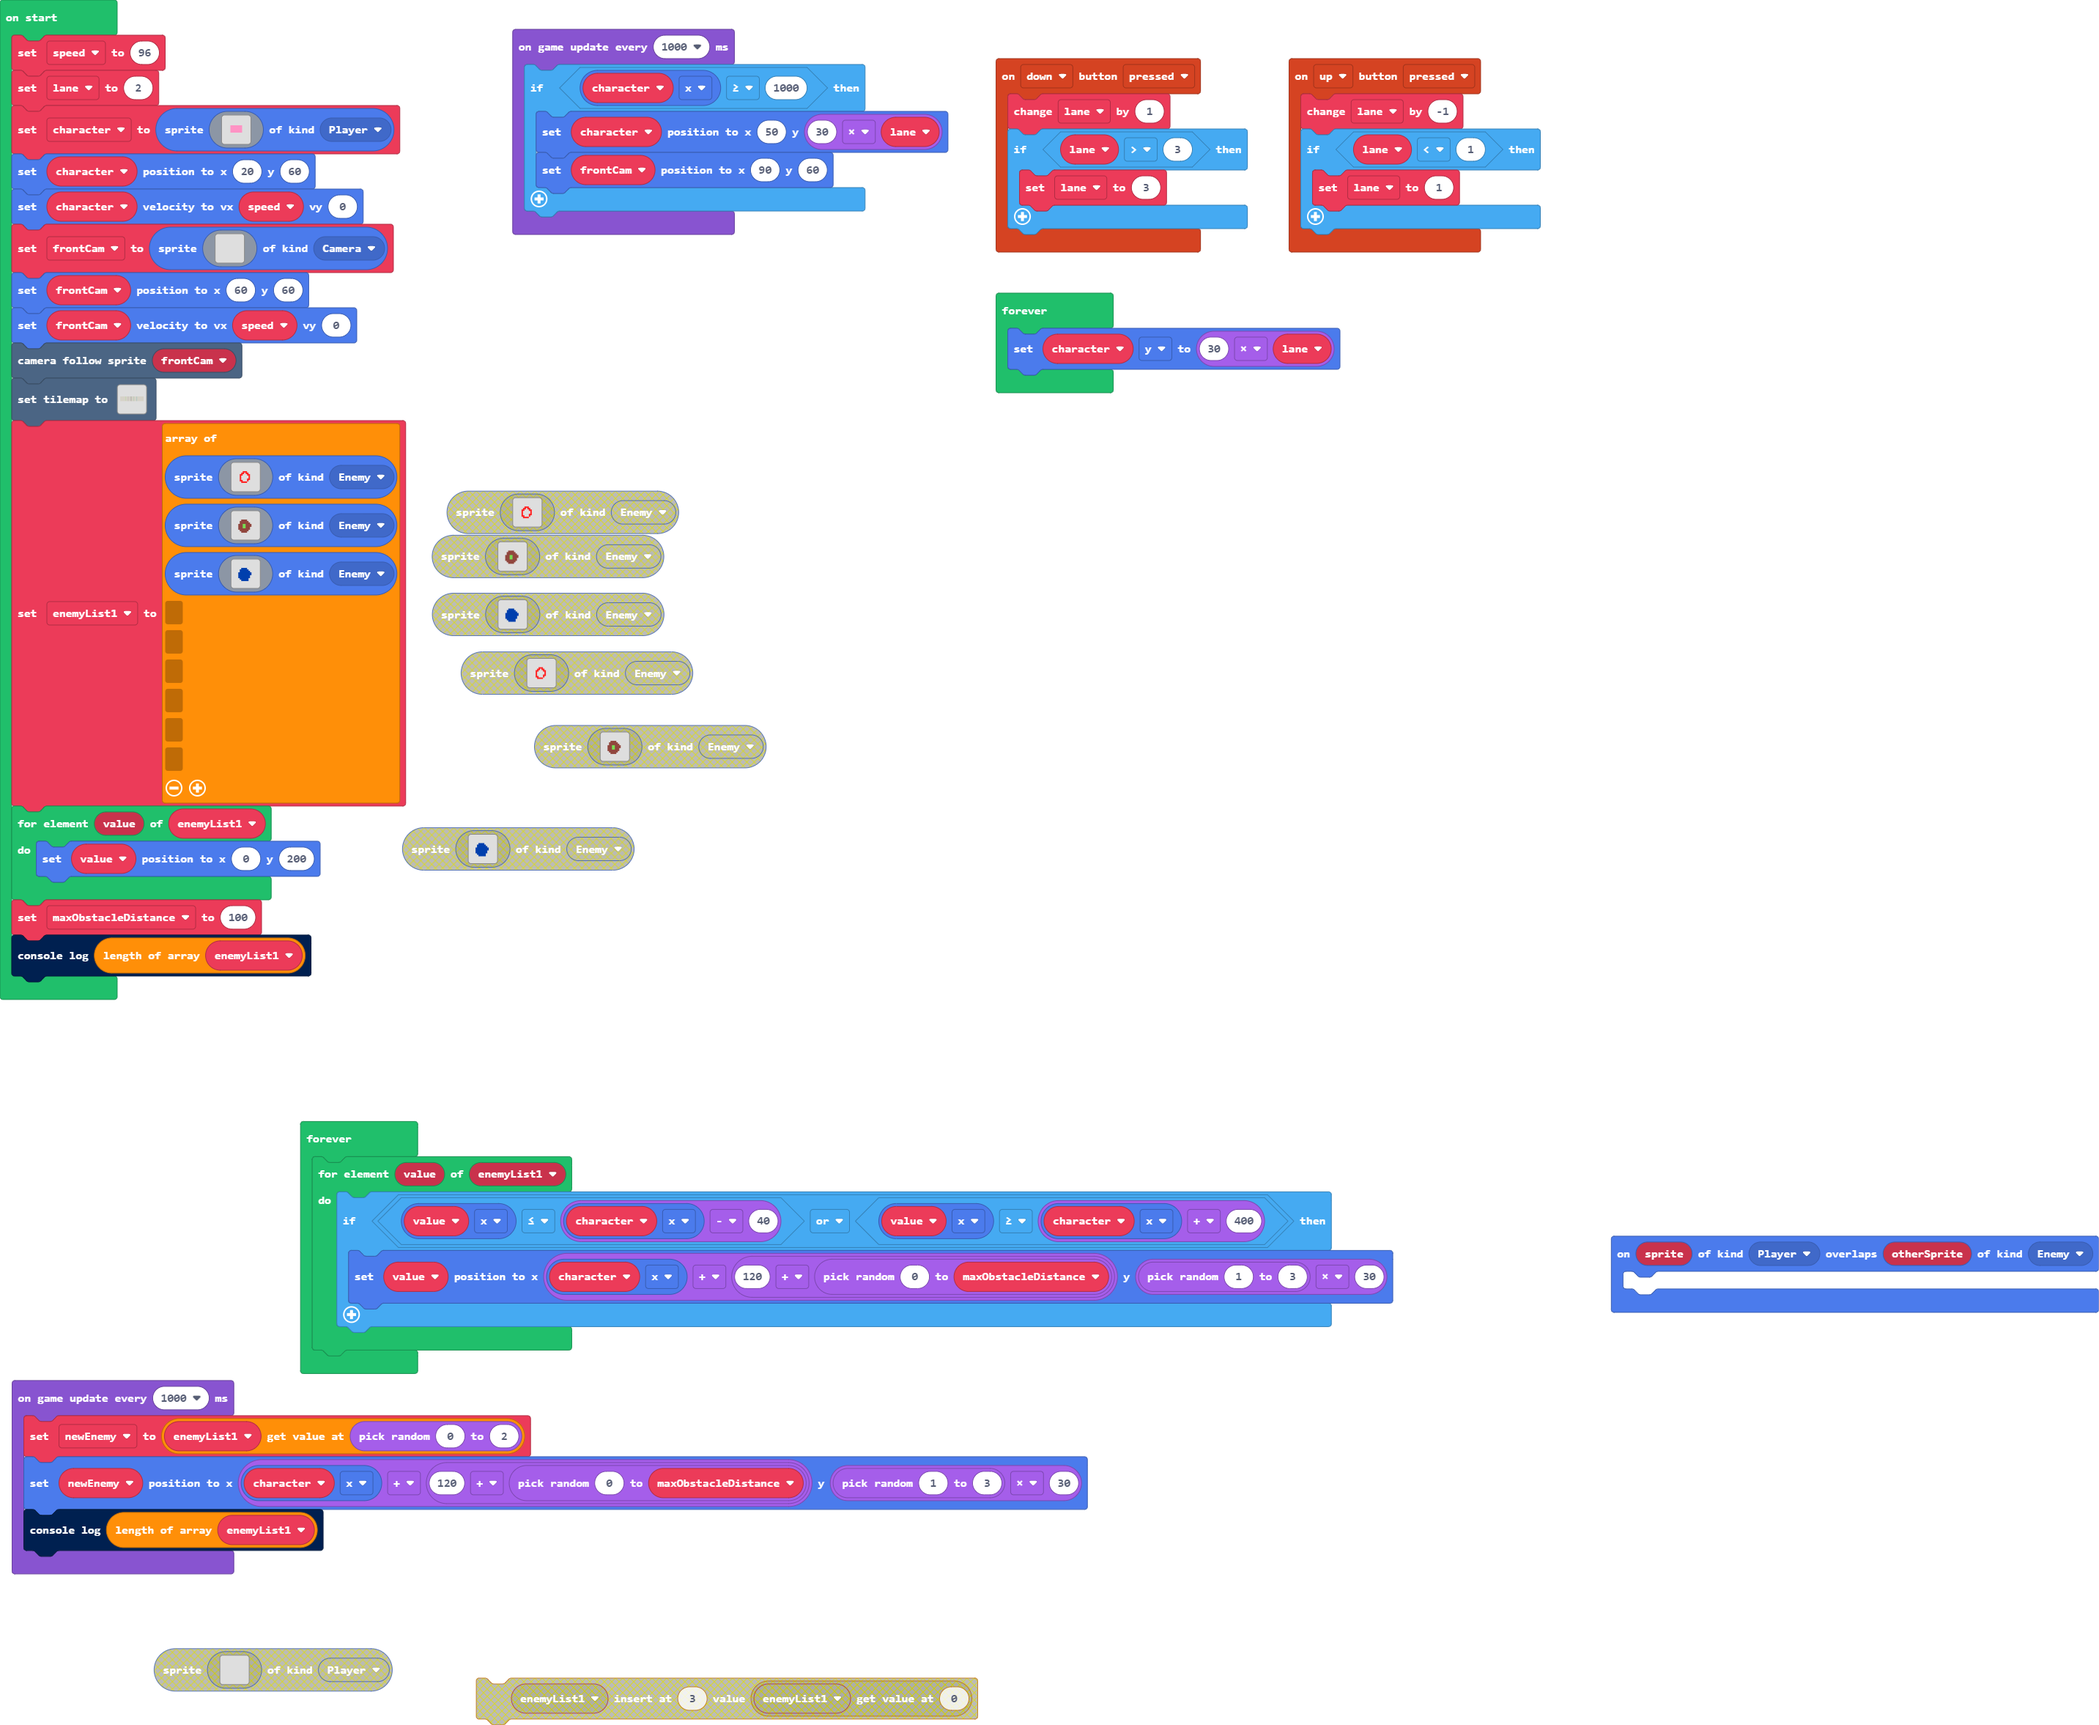
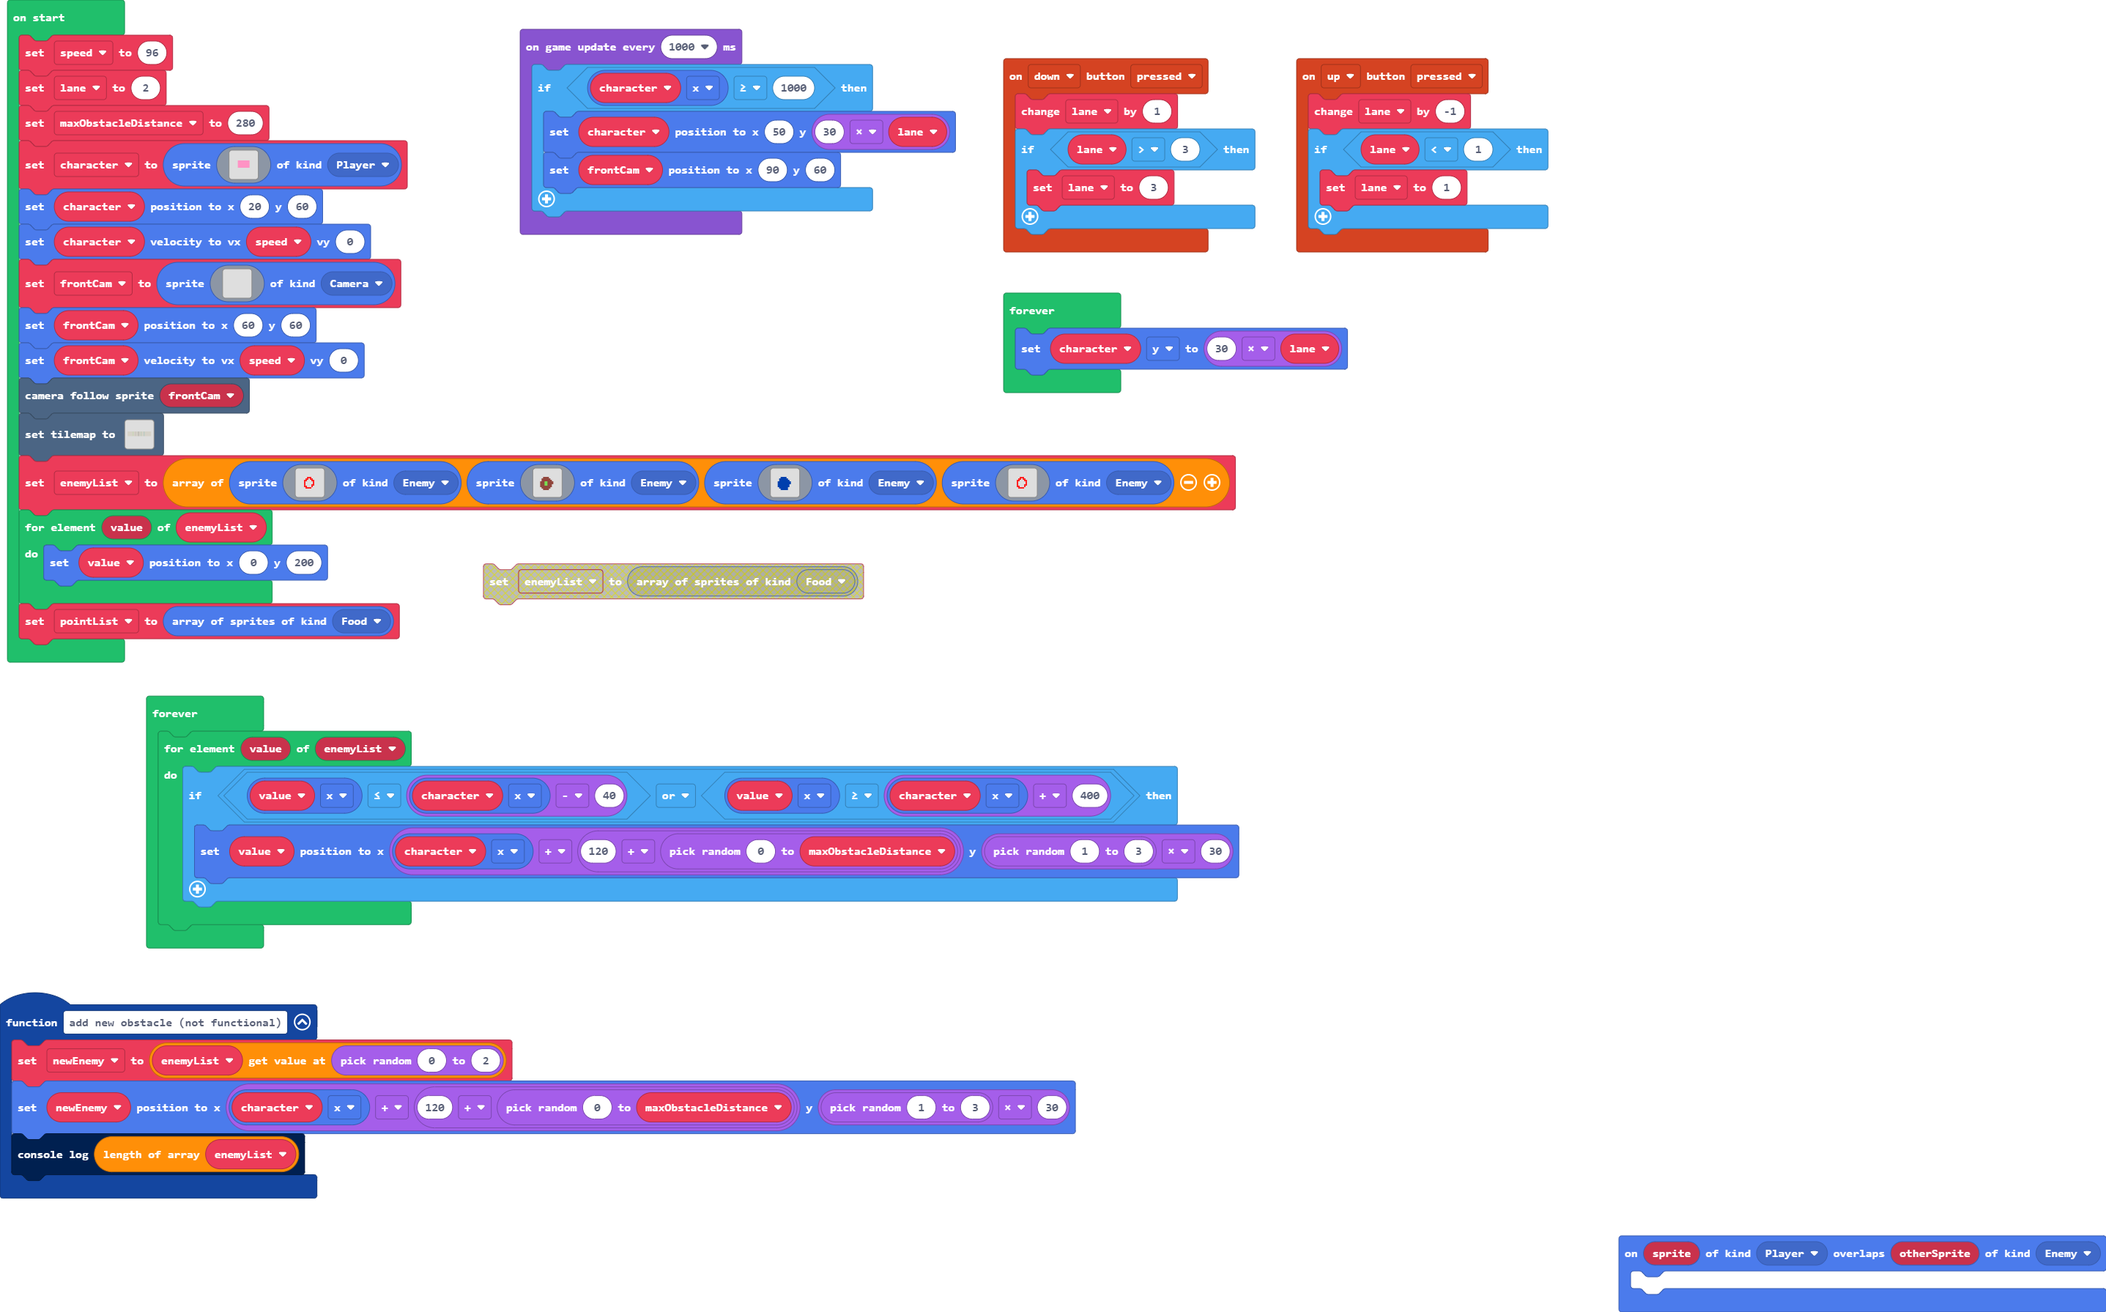
Update main.blocks, main.ts

diff --git a/main.ts b/main.ts
@@ -7,6 +7,11 @@ controller.up.onEvent(ControllerButtonEvent.Pressed, function () {
         lane = 1
     }
 })
+function add_new_obstacle_not_functional () {
+    newEnemy = enemyList[randint(0, 2)]
+    newEnemy.setPosition(character.x + (120 + randint(0, maxObstacleDistance)), randint(1, 3) * 30)
+    console.log(enemyList.length)
+}
 controller.down.onEvent(ControllerButtonEvent.Pressed, function () {
     lane += 1
     if (lane > 3) {
@@ -17,10 +22,14 @@ sprites.onOverlap(SpriteKind.Player, SpriteKind.Enemy, function (sprite, otherSp
 	
 })
 let newEnemy: Sprite = null
+let enemyList: Sprite[] = []
+let character: Sprite = null
+let maxObstacleDistance = 0
 let lane = 0
 let speed = 96
 lane = 2
-let character = sprites.create(img`
+maxObstacleDistance = 280
+character = sprites.create(img`
     . . . . . . . . . . . . . . . . 
     . . . . . . . . . . . . . . . . 
     . . . . . . . . . . . . . . . . 
@@ -62,8 +71,7 @@ frontCam.setPosition(60, 60)
 frontCam.setVelocity(speed, 0)
 scene.cameraFollowSprite(frontCam)
 tiles.setTilemap(tilemap`level_1`)
-let enemyList1 = [
-sprites.create(img`
+enemyList = [sprites.create(img`
     . . . . . . . . . . . . . . . . 
     . . . . . . . . . . . . . . . . 
     . . . . . . . . . . . . . . . . 
@@ -80,8 +88,7 @@ sprites.create(img`
     . . . . . . . . . . . . . . . . 
     . . . . . . . . . . . . . . . . 
     . . . . . . . . . . . . . . . . 
-    `, SpriteKind.Enemy),
-sprites.create(img`
+    `, SpriteKind.Enemy), sprites.create(img`
     . . . . . . . . . . . . . . . . 
     . . . . . . . . . . . . . . . . 
     . . . . . . . . . . . . . . . . 
@@ -98,8 +105,7 @@ sprites.create(img`
     . . . . . . . . . . . . . . . . 
     . . . . . . . . . . . . . . . . 
     . . . . . . . . . . . . . . . . 
-    `, SpriteKind.Enemy),
-sprites.create(img`
+    `, SpriteKind.Enemy), sprites.create(img`
     . . . . . . . . . . . . . . . . 
     . . . . . . . . . . . . . . . . 
     . . . . . . . . . . . . . . . . 
@@ -116,29 +122,39 @@ sprites.create(img`
     . . . . . . . . . . . . . . . . 
     . . . . . . . . . . . . . . . . 
     . . . . . . . . . . . . . . . . 
-    `, SpriteKind.Enemy)
-]
-for (let value of enemyList1) {
+    `, SpriteKind.Enemy), sprites.create(img`
+    . . . . . . . . . . . . . . . . 
+    . . . . . . . . . . . . . . . . 
+    . . . . . . . . . . . . . . . . 
+    . . . . . . . . . . . . . . . . 
+    . . . . . . 2 2 2 . . . . . . . 
+    . . . . . 2 2 . 2 2 . . . . . . 
+    . . . . 2 2 . . . 2 2 . . . . . 
+    . . . . 2 . . . . . 2 . . . . . 
+    . . . . 2 . . . . . 2 . . . . . 
+    . . . . 2 . . . . 2 2 . . . . . 
+    . . . . 2 2 . . . 2 . . . . . . 
+    . . . . . 2 2 2 2 . . . . . . . 
+    . . . . . . . . . . . . . . . . 
+    . . . . . . . . . . . . . . . . 
+    . . . . . . . . . . . . . . . . 
+    . . . . . . . . . . . . . . . . 
+    `, SpriteKind.Enemy)]
+for (let value of enemyList) {
     value.setPosition(0, 200)
 }
-let maxObstacleDistance = 100
-console.log(enemyList1.length)
+let pointList = sprites.allOfKind(SpriteKind.Food)
 game.onUpdateInterval(1000, function () {
     if (character.x >= 1000) {
         character.setPosition(50, 30 * lane)
         frontCam.setPosition(90, 60)
     }
 })
-game.onUpdateInterval(1000, function () {
-    newEnemy = enemyList1[randint(0, 2)]
-    newEnemy.setPosition(character.x + (120 + randint(0, maxObstacleDistance)), randint(1, 3) * 30)
-    console.log(enemyList1.length)
-})
 forever(function () {
     character.y = 30 * lane
 })
 forever(function () {
-    for (let value of enemyList1) {
+    for (let value of enemyList) {
         if (value.x <= character.x - 40 || value.x >= character.x + 400) {
             value.setPosition(character.x + (120 + randint(0, maxObstacleDistance)), randint(1, 3) * 30)
         }
